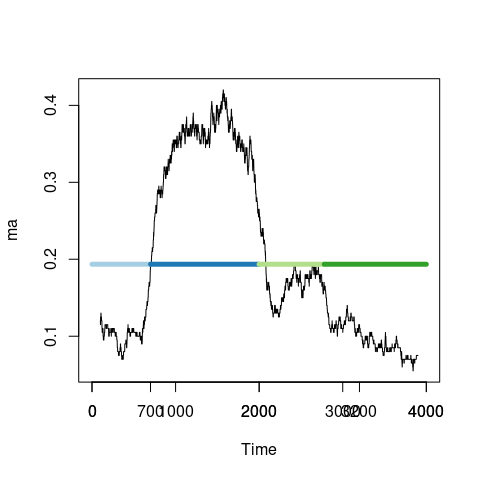
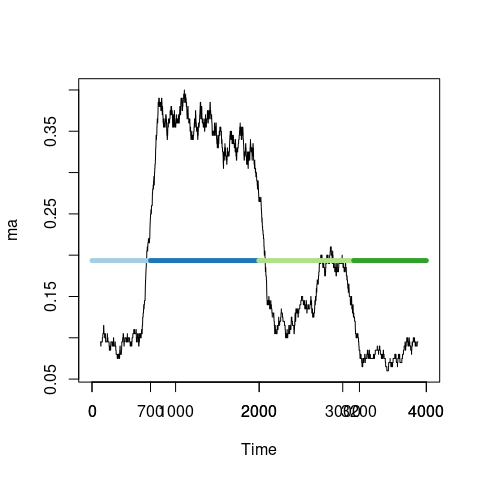
all

diff --git a/README.md b/README.md
@@ -68,8 +68,6 @@ To find optimal number of breaks
 
 ``` r
 res <- suppressWarnings(getNumberBreaksChiSquare(muts,L=L,Kmin=Kmin))
-# plot((0:(length(res[[2]])-1))[-c(1:2)],res[[2]][-c(1:2)])
-# print(res)
 ```
 
 To plot the results
@@ -196,10 +194,10 @@ for (i in order(-Ls))
 taus <- nmutsS/Ks
 end_time <- Sys.time()
 print(end_time - start_time)
-#> Time difference of 24.52232 mins
+#> Time difference of 23.3189 mins
 ```
 
-In total there are 2600 segments.
+In total there are 2546 segments.
 
 Plotting divergences and lengths of the segments:
 
@@ -312,9 +310,9 @@ start_time <- Sys.time()
 breaks <- suppressWarnings(getNumberBreaksChiSquare(muts=muts,L=L,Kmin=Kmin))
 gc()
 #>           used  (Mb) gc trigger  (Mb) max used  (Mb)
-#> Ncells 2650633 141.6    4852485 259.2  4852485 259.2
-#> Vcells 5939262  45.4   12255594  93.6 12255594  93.6
-plot(breaks[[2]][3:length(breaks[[2]])])
+#> Ncells 2651641 141.7    4431162 236.7  4431162 236.7
+#> Vcells 5940293  45.4   12256775  93.6 12256775  93.6
+plot(breaks[3:length(breaks)])
 ```
 
 <img src="man/figures/README-human breaking to segments-1.png" width="100%" />
@@ -330,7 +328,7 @@ for (j in 1:(length(breaks0L)-1))
 taus <- nmutsS/Ks
 end_time <- Sys.time()
 print(end_time - start_time)
-#> Time difference of 2.068299 mins
+#> Time difference of 55.42389 secs
 
 colors <- rep(brewer.pal(name="Paired", n=8),round(length(breaks0L)/8+1))
 par(mar=c(2,0,0,0))
